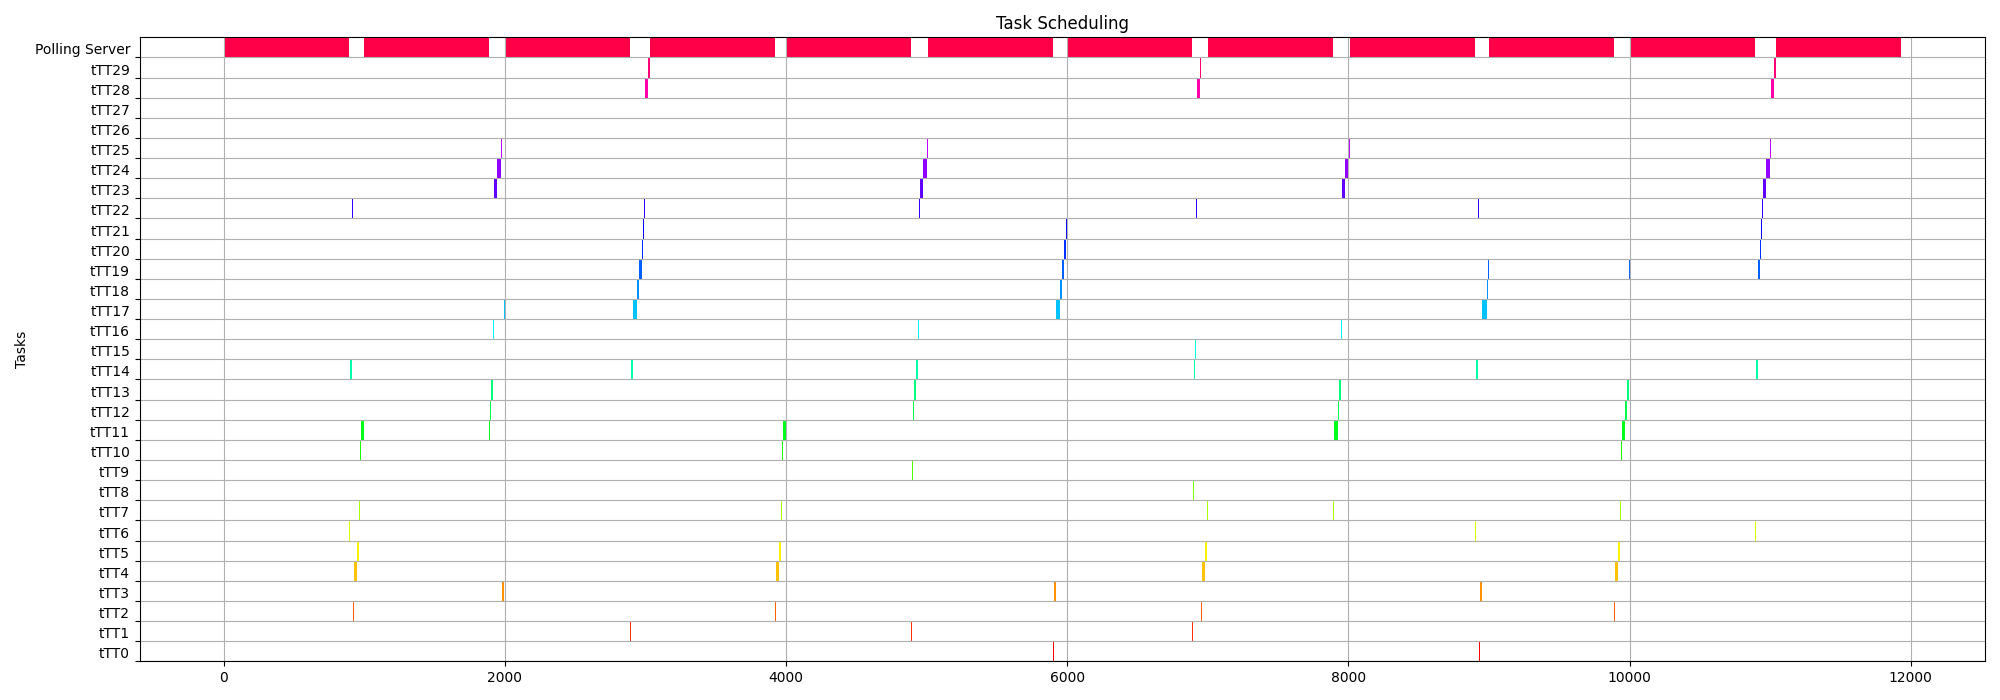
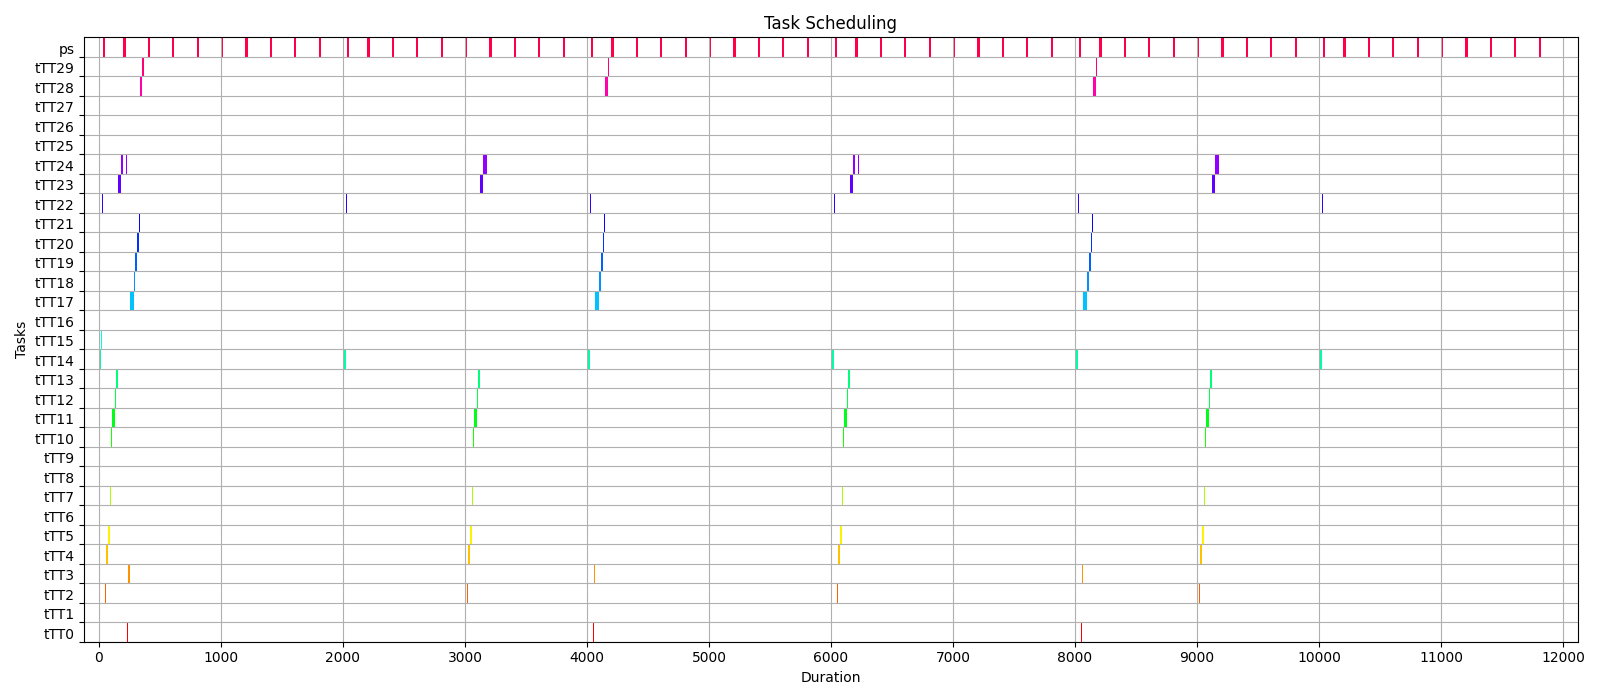
edp fix

diff --git a/libraries/algorithms.py b/libraries/algorithms.py
@@ -130,49 +130,41 @@ def EDF(tasks):
 
 
 def EDP(ps: PollingServer):
-    # alpha -> bandwidth
-    # Delta -> delay
-    # need to find out the way to calculate Cp, Tp, Dp
-    Cp = ps.duration  # =budget?
-    Tp = ps.period
-    Dp = ps.deadline
-    delta = Tp + Dp - 2 * Cp
-    alpha = Cp / Tp
+    delta = ps.period + ps.deadline - 2 * ps.duration
+    alpha = ps.duration / ps.period
+    #print(delta, alpha)
 
-    # supply = 0
-    # demand = 0
-
-    P = [0] * len(ps.tasks)
     T = lcm(*[obj.period for obj in ps.tasks])
-    Period = [obj.period for obj in ps.tasks]
-    C = [obj.duration for obj in ps.tasks]
-    D = [obj.deadline for obj in ps.tasks]
-    # print(T)
-    for i, task in enumerate(ps.tasks):
-        t = 0
-        responseTime = D[i] + 1
-        while t <= T:
-            supply = alpha * (t - delta)
-            demand = 0
-            for j, _ in enumerate(ps.tasks):
-                if P[j] >= P[i]:
-                    demand = demand + ceil(t / Period[j]) * C[j]
+    #print("T:", T)
+    WCRT = [T]*len(ps.tasks)
+    schedulable = True
 
+    for i, ETtask1 in enumerate(ps.tasks):
+        t = 1
+        #print(ETtask1)
+        while t <= T:
+            supply = max(0, alpha * (t - delta))
+            demand = 0
+            for ETtask2 in ps.tasks:
+                if ETtask2.priority >= ETtask1.priority:
+                    demand += ceil(t / ETtask2.period) * ETtask2.duration
+
+            #print("t: {}, supply {}, demand {}".format(t, supply, demand))
             if supply >= demand:
-                responseTime = t
+                WCRT[i] = t
                 break
             t += 1
 
-        if responseTime > D[i]:
-            return False, responseTime
-    return True, responseTime
+        if WCRT[i] > ETtask1.deadline:
+            schedulable = False
+    return schedulable, WCRT
 
 
 if __name__ == "__main__":
     path = "./test_cases/inf_10_10/taskset__1643188013-a_0.1-b_0.1-n_30-m_20-d_unif-p_2000-q_4000-g_1000-t_5__0__tsk.csv"
     dl = dataloader.DataLoader(path)
     TT, ET = dl.loadFile()
-    ps = PollingServer("ps", duration=1800, period=2000, deadline=2000, tasks=ET)
+    ps = PollingServer("ps", duration=500, period=2000, deadline=50, tasks=ET)
 
     print(EDP(ps))
-    print(EDF(TT + [ps]))
+    #print(EDF(TT + [ps]))

diff --git a/libraries/simulationAnealing.py b/libraries/simulationAnealing.py
@@ -122,12 +122,12 @@ class SimulatedAnnealing:
             return random.random() < math.exp(-cost / self.currTemp)
         return False
 
-    def computeCost(self, solution, params=["wcrt", "response", "duration"], weights=[0, 1, 0]):
+    def computeCost(self, solution, params=["wcrt_tt", "wcrt_et", "duration"], weights=[0.2, 0.4, 0.4]):
         assert sum(weights) == 1.0
 
         params_dict = {
-            "wcrt": np.mean(EDF(self.TTtasks + [solution])[1]),
-            "response": EDP(solution)[1],
+            "wcrt_tt": np.mean(EDF(self.TTtasks + [solution])[1]),
+            "wcrt_et": np.mean(EDP(solution)[1]),
             "duration": solution.duration,
         }
         cost = 0
@@ -150,16 +150,16 @@ class SimulatedAnnealing:
         return neighbor
 
     def isValidNeighbor(self, neighbor) -> bool:
-        schedule, __ = EDP(neighbor)
+        schedulable, __ = EDP(neighbor)
         sigma, __ = EDF(self.TTtasks + [neighbor])
-        return schedule and sigma and neighbor.duration <= neighbor.period and neighbor.deadline <= neighbor.period
+        return schedulable and sigma and neighbor.duration <= neighbor.period and neighbor.deadline <= neighbor.period
 
 
 if __name__ == "__main__":
     path = "./test_cases/inf_10_10/taskset__1643188013-a_0.1-b_0.1-n_30-m_20-d_unif-p_2000-q_4000-g_1000-t_5__0__tsk.csv"
     dl = dataloader.DataLoader(path)
     TT, ET = dl.loadFile()
-    TT, ET = TT, ET[:5]
+    #TT, ET = TT, ET[:5]
     init_ps = PollingServer("Polling Server", 1200, 1500, 1500, ET)
 
     sa = SimulatedAnnealing(TT, init_ps)
@@ -168,8 +168,8 @@ if __name__ == "__main__":
         sa.run(bar)
 
     sigma, wcrtNewSolution = EDF(TT + [sa.solution])
-    schedule, responsetimeNew = EDP(sa.solution)
-    logging.debug(wcrtNewSolution, schedule, responsetimeNew)
+    schedulable, responsetimeNew = EDP(sa.solution)
+    logging.debug(wcrtNewSolution, schedulable, responsetimeNew)
 
     sa.printSolution()
     sa.plotSolution()

diff --git a/libraries/graphplot.py b/libraries/graphplot.py
@@ -7,17 +7,18 @@ from libraries.algorithms import *
 from numpy import arange
     
 def plotTTtask(TT, sigma, xmax=None):
-    plt.rcParams["figure.figsize"] = [20, 7]
+    plt.rcParams["figure.figsize"] = [16, 7]
     plt.rcParams["figure.autolayout"] = True
     
     fig, ax = plt.subplots()
     ax.set_title("Task Scheduling")
 
     #X-axis
-    if xmax:
-        ax.set_xlim(0, xmax)
-        plt.xticks(np.arange(0, xmax, xmax//30))
-        ax.set_xlabel('Duration')
+    if not xmax:
+        xmax = lcm(*[obj.period for obj in TT])
+    ax.set_xlim(0-0.01*xmax, xmax+0.01*xmax)
+    plt.xticks(np.arange(0, xmax+xmax//12, xmax//12))
+    ax.set_xlabel('Duration')
         
     #Y-axis
     y_ticklables = [obj.name for obj in TT]

diff --git a/libraries/tasks.py b/libraries/tasks.py
@@ -19,6 +19,9 @@ class ET(Event):
         super().__init__(name, duration, period, deadline)
         self.priority = priority
 
+    def __repr__(self):
+        return super().__repr__() + ", priority: {}".format(self.priority)
+
 class PollingServer(Event):
     def __init__(self, name, duration, period, deadline, tasks) -> None:
         super().__init__(name, duration, period, deadline)
